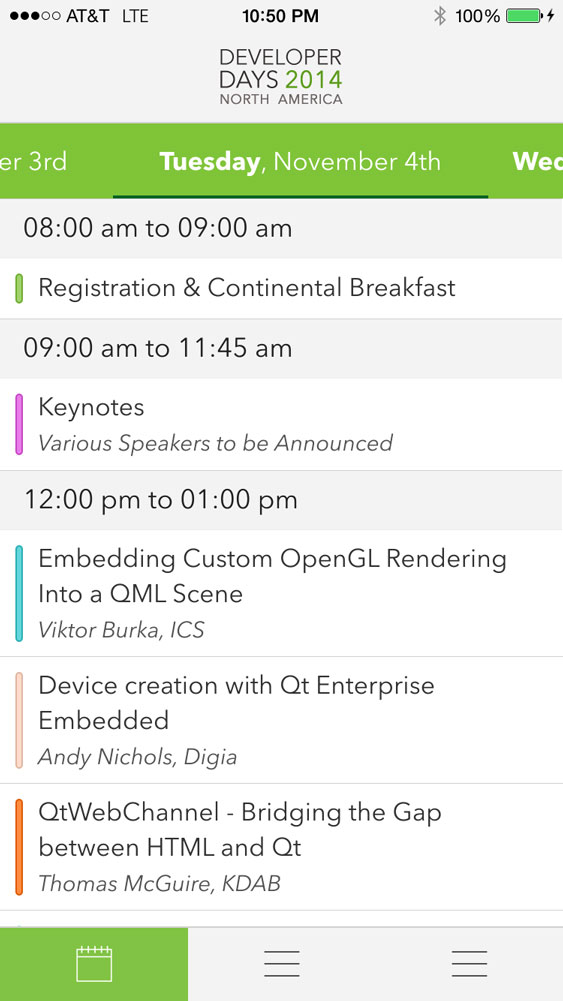
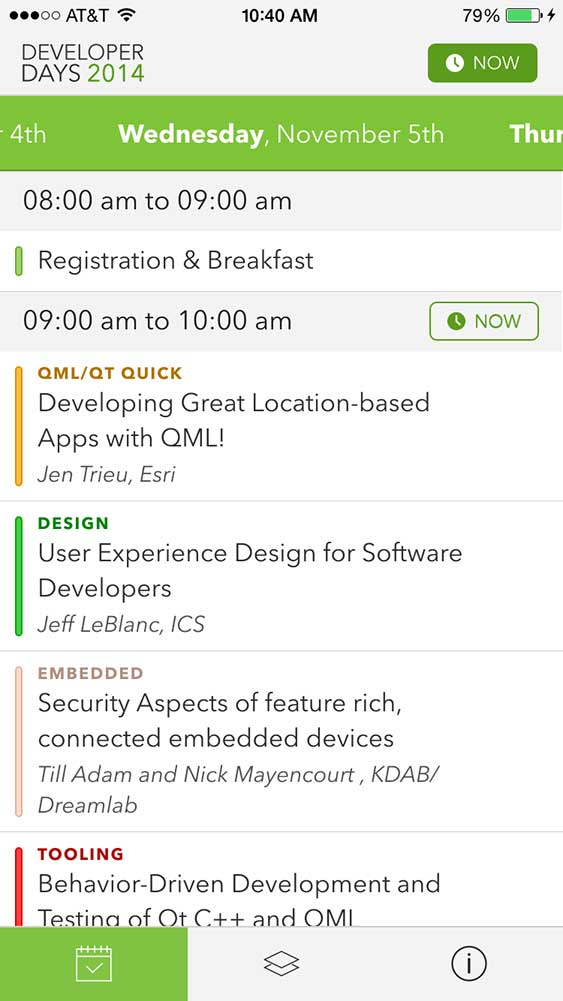
Updated read me and screenshot to reflect updated design.

Changed region(s): [[0.0, 0.0, 1.0, 0.991], [0.7851, 0.9291, 0.8757, 0.991], [0.8757, 0.5574, 0.9059, 0.5884]]

diff --git a/README.md b/README.md
@@ -3,6 +3,9 @@ devdays14
 
 Qt Developer Days - Mobile application - Scheduling for Sessions + Tracks
 
+- Version 1 supports both Europe / North America
+- Version 2 includes more features and only supports North America
+
 
 ---
 
@@ -10,7 +13,7 @@ Qt Developer Days - Mobile application - Scheduling for Sessions + Tracks
 
 - iOS - [AppStore : DevDays '14](https://itunes.apple.com/us/app/devdays-14-developer-days/id922395915)
 - Android - [Google Play : DevDays](https://play.google.com/store/apps/details?id=com.iktwo.qtdevdays14)
-- Blackberry
+- Blackberry - If someone is interested in building this code for blackberry, feel free to pull this repo and make it work! It should run as is, with the exception of a few minor performance tweaks (if using Z10)
 
 
 **Features:**
@@ -22,6 +25,8 @@ Qt Developer Days - Mobile application - Scheduling for Sessions + Tracks
 - Venue information
 
 **Design:**
+
+[Youtube Simulation](https://www.youtube.com/watch?v=OvIy21lopsA)
 
 ![image](design/screenshot.jpg)
 
